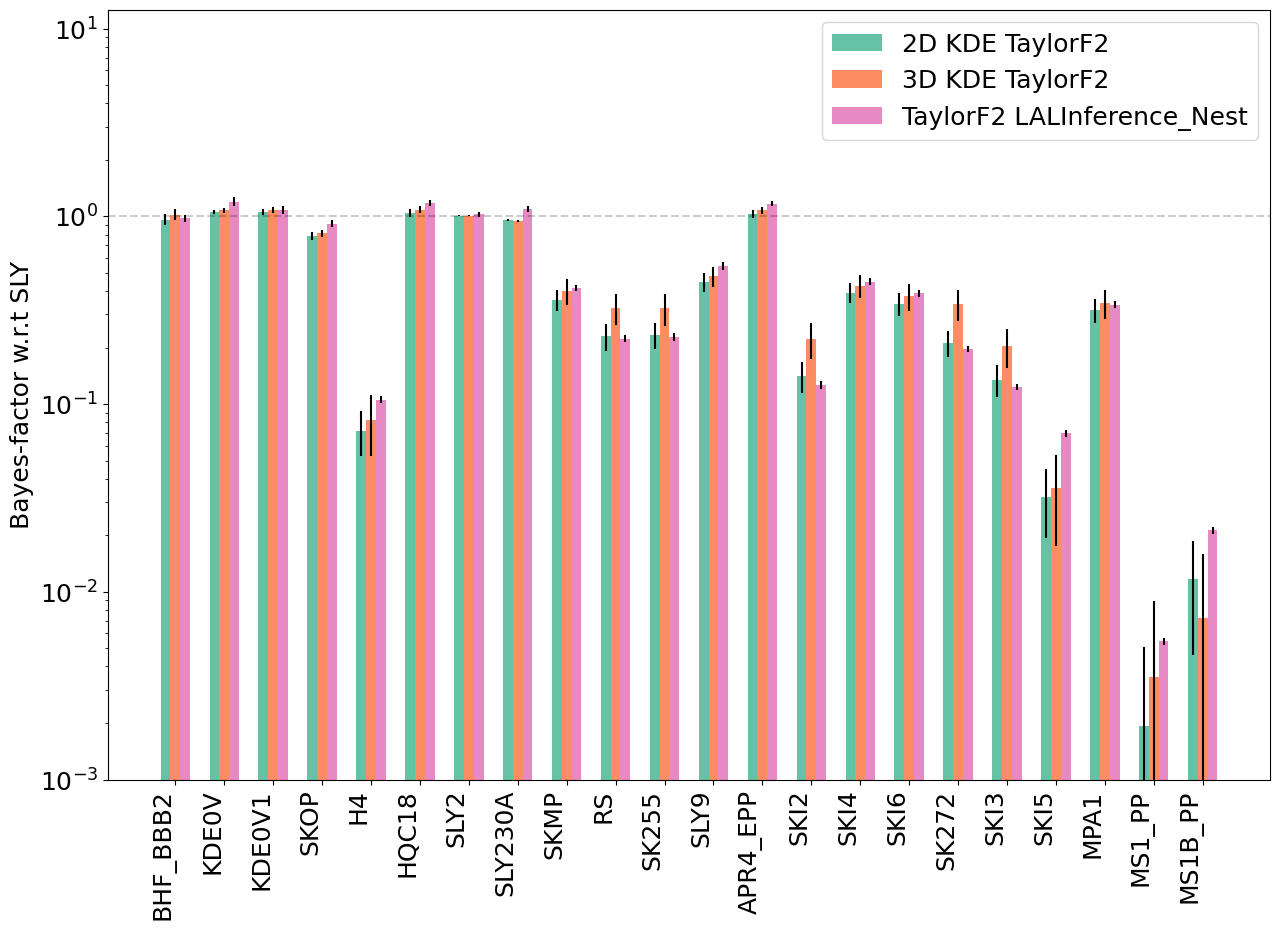
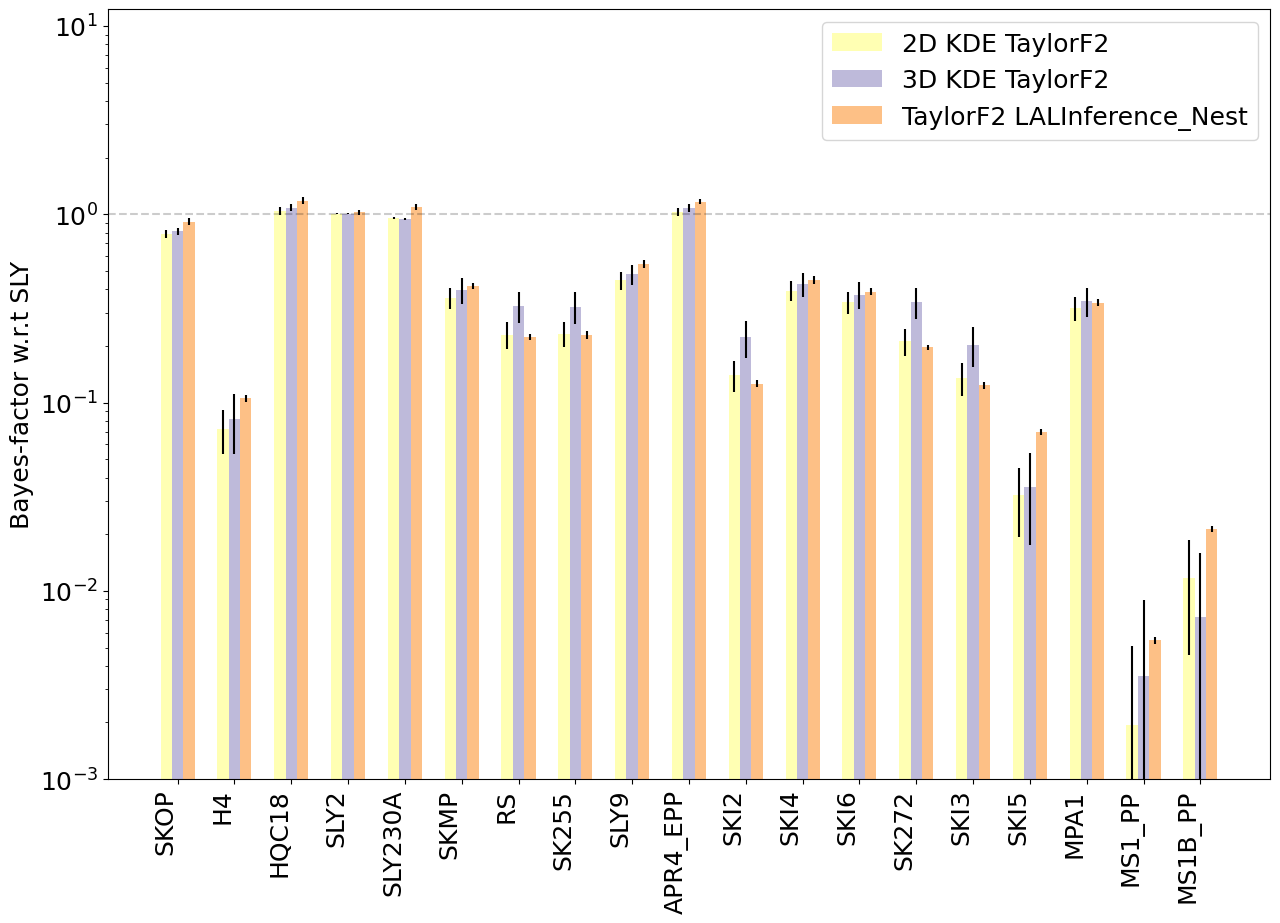
Taylor Nested Sampling result comparison testing.

diff --git a/year3/lastStretch/eventBFs.py b/year3/lastStretch/eventBFs.py
@@ -82,15 +82,15 @@ def singleEventPlots():
         data = json.load(f)
 
     #labels = ["2D KDE TaylorF2", "3D KDE TaylorF2", "3D KDE PhenomNRT"]
-    #labels = ["2D KDE TaylorF2", "3D KDE TaylorF2", "TaylorF2 LALInference_Nest"]
-    labels = ["3D KDE PhenomNRT", "IMRPhenom LALInference_Nest"]
+    labels = ["2D KDE TaylorF2", "3D KDE TaylorF2", "TaylorF2 LALInference_Nest"]
+    #labels = ["3D KDE PhenomNRT", "IMRPhenom LALInference_Nest"]
     eosList = ["SKOP","H4","HQC18","SLY2","SLY230A","SKMP","RS","SK255","SLY9","APR4_EPP","SKI2","SKI4","SKI6","SK272","SKI3","SKI5","MPA1","MS1_PP","MS1B_PP"]
     #colors = ['#ffffb3','#bebada','#fb8072']
-    #colors = ['#66c2a5','#fc8d62','#e78ac3']
-    colors = ['#beaed4','#fdc086']
+    colors = ['#ffffb3','#bebada','#fdc086']
+    #colors = ['#beaed4','#fdc086']
     x_axis = np.arange(len(eosList))
-    #spacing = [-.20,.0,.20]
-    spacing = [-.10,.10]
+    spacing = [-.20,.0,.20]
+    #spacing = [-.10,.10]
     plt.clf()
     plt.rcParams.update({"font.size":18})
     plt.figure(figsize=(15, 10))
@@ -121,6 +121,6 @@ def singleEventPlots():
     #plt.title("EoS Bayes Factors w.r.t. SLY")
     plt.ylabel("Bayes-factor w.r.t SLY")
     plt.legend()
-    plt.savefig("plots/BNS/BFs/GW170817_2D_3D_BFs3.png",bbox_inches="tight")
+    plt.savefig("plots/BNS/BFs/GW170817_2D_3D_BFs2.png",bbox_inches="tight")
     #plt.savefig("plots/NSBH/BFs/GW230529_2D_3D_BFs.png",bbox_inches="tight")
 
